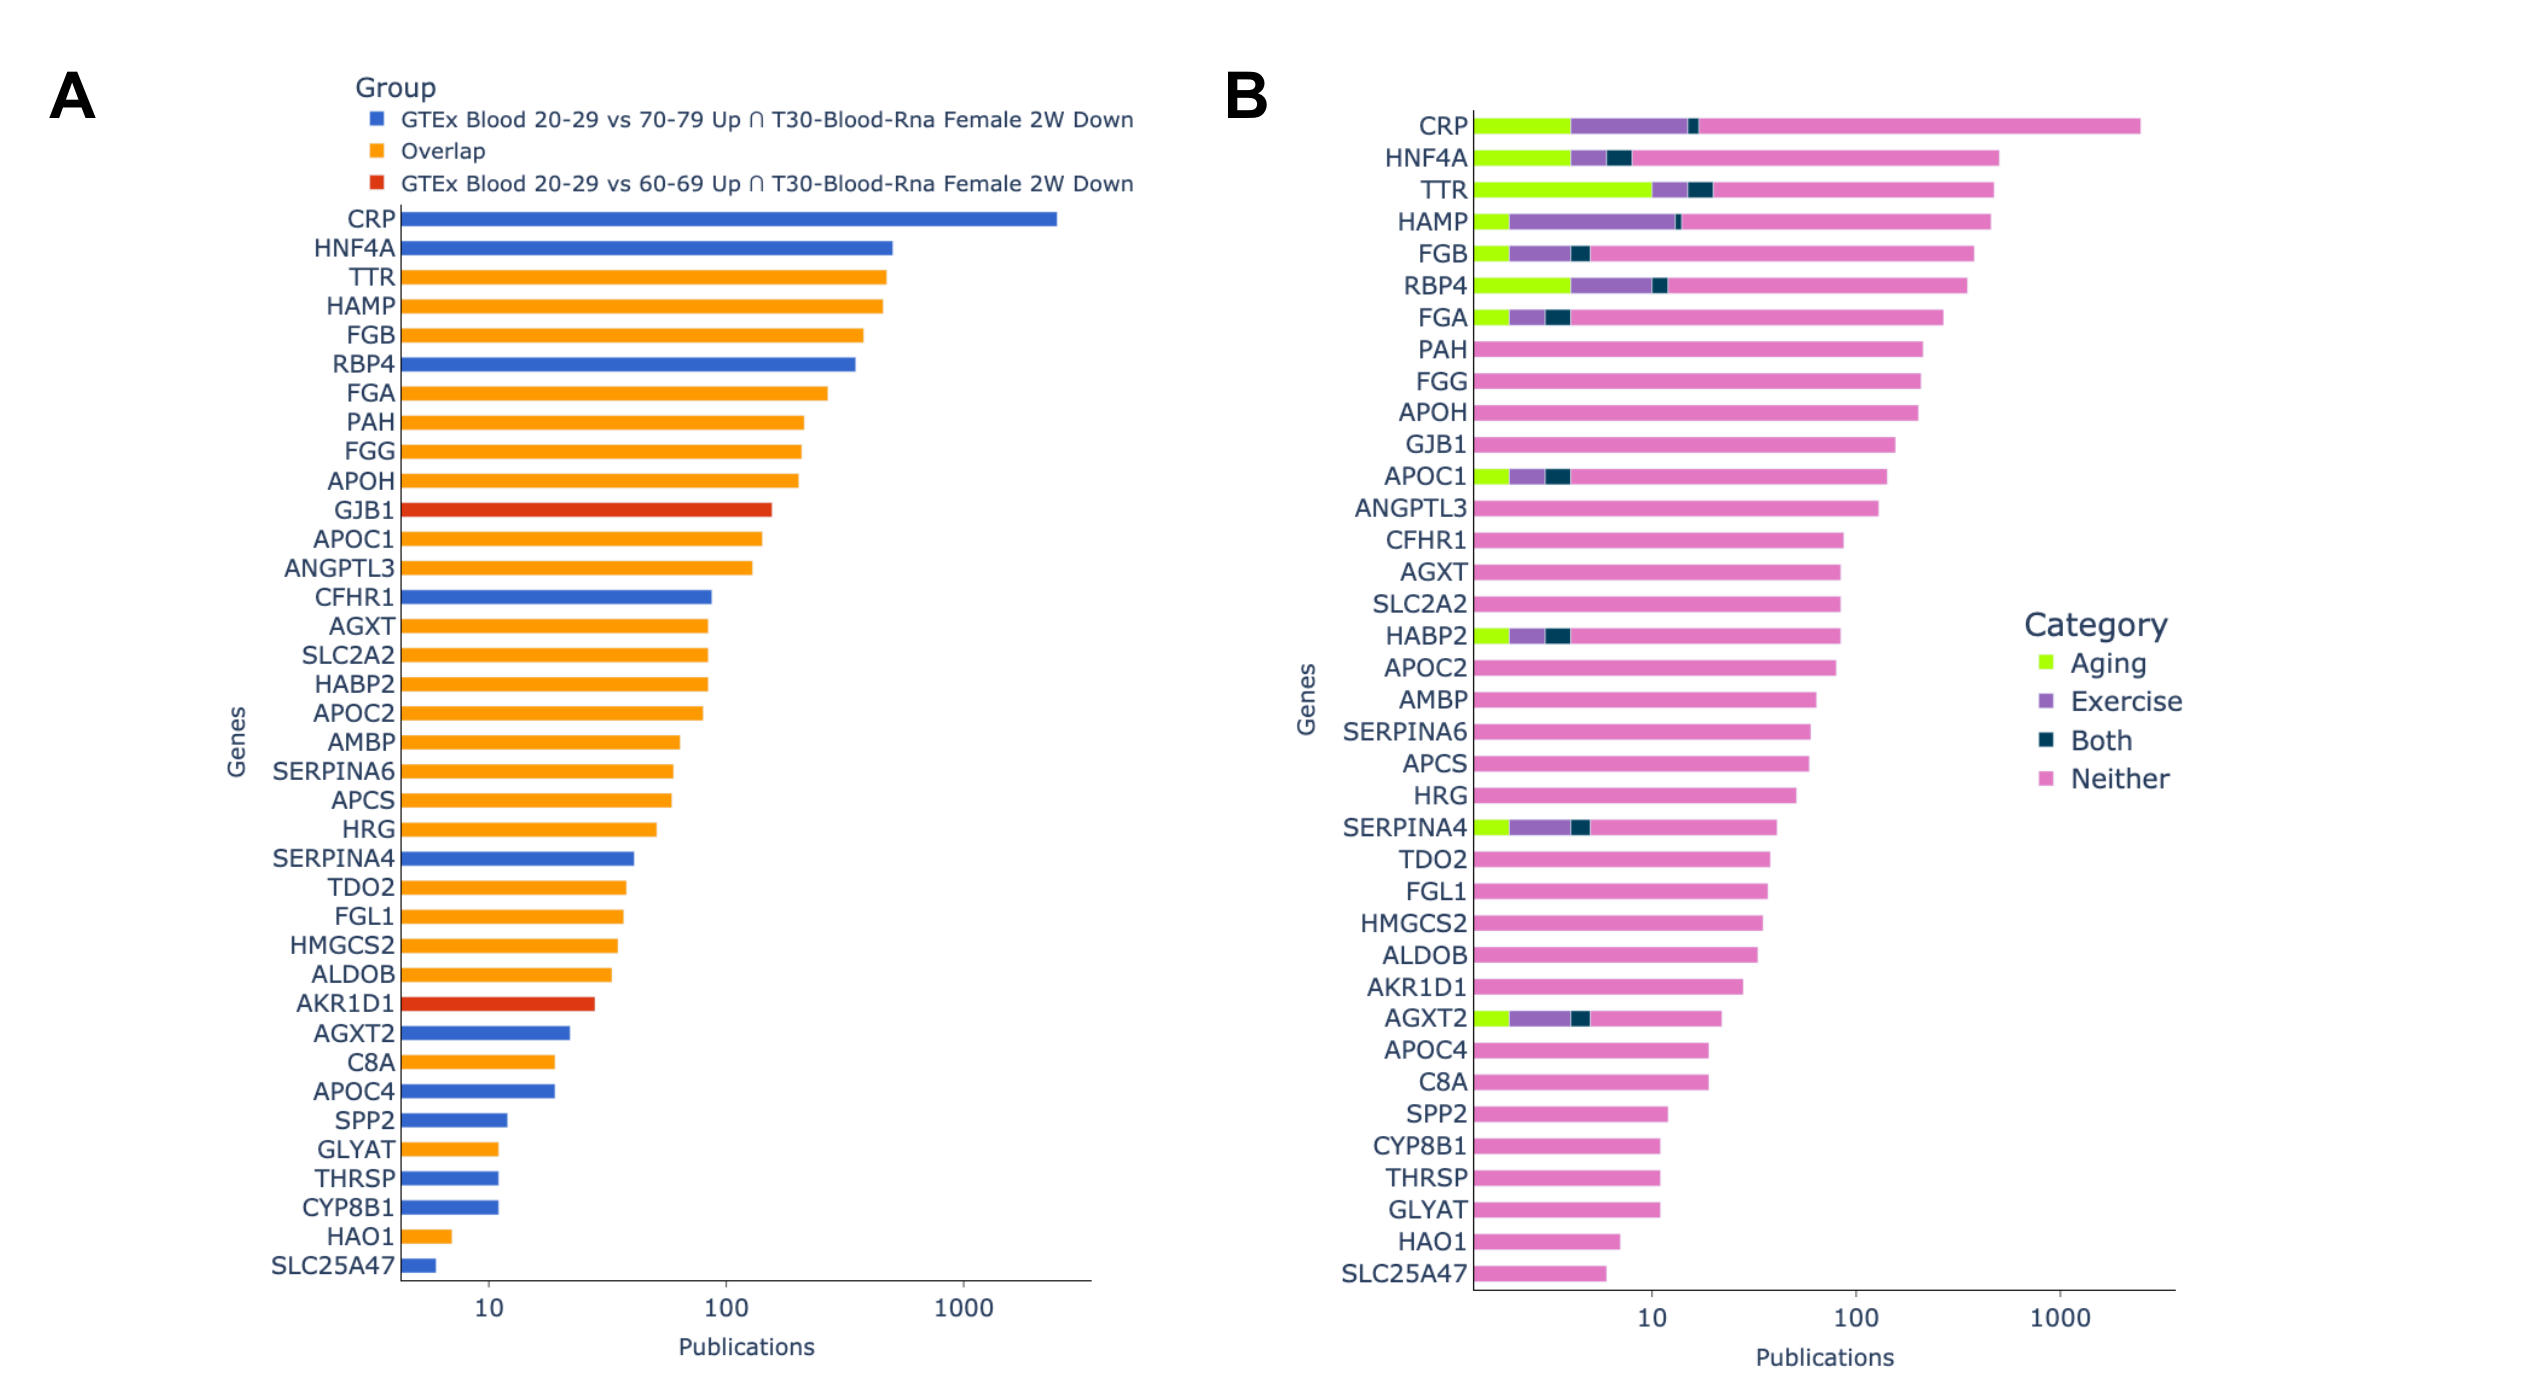
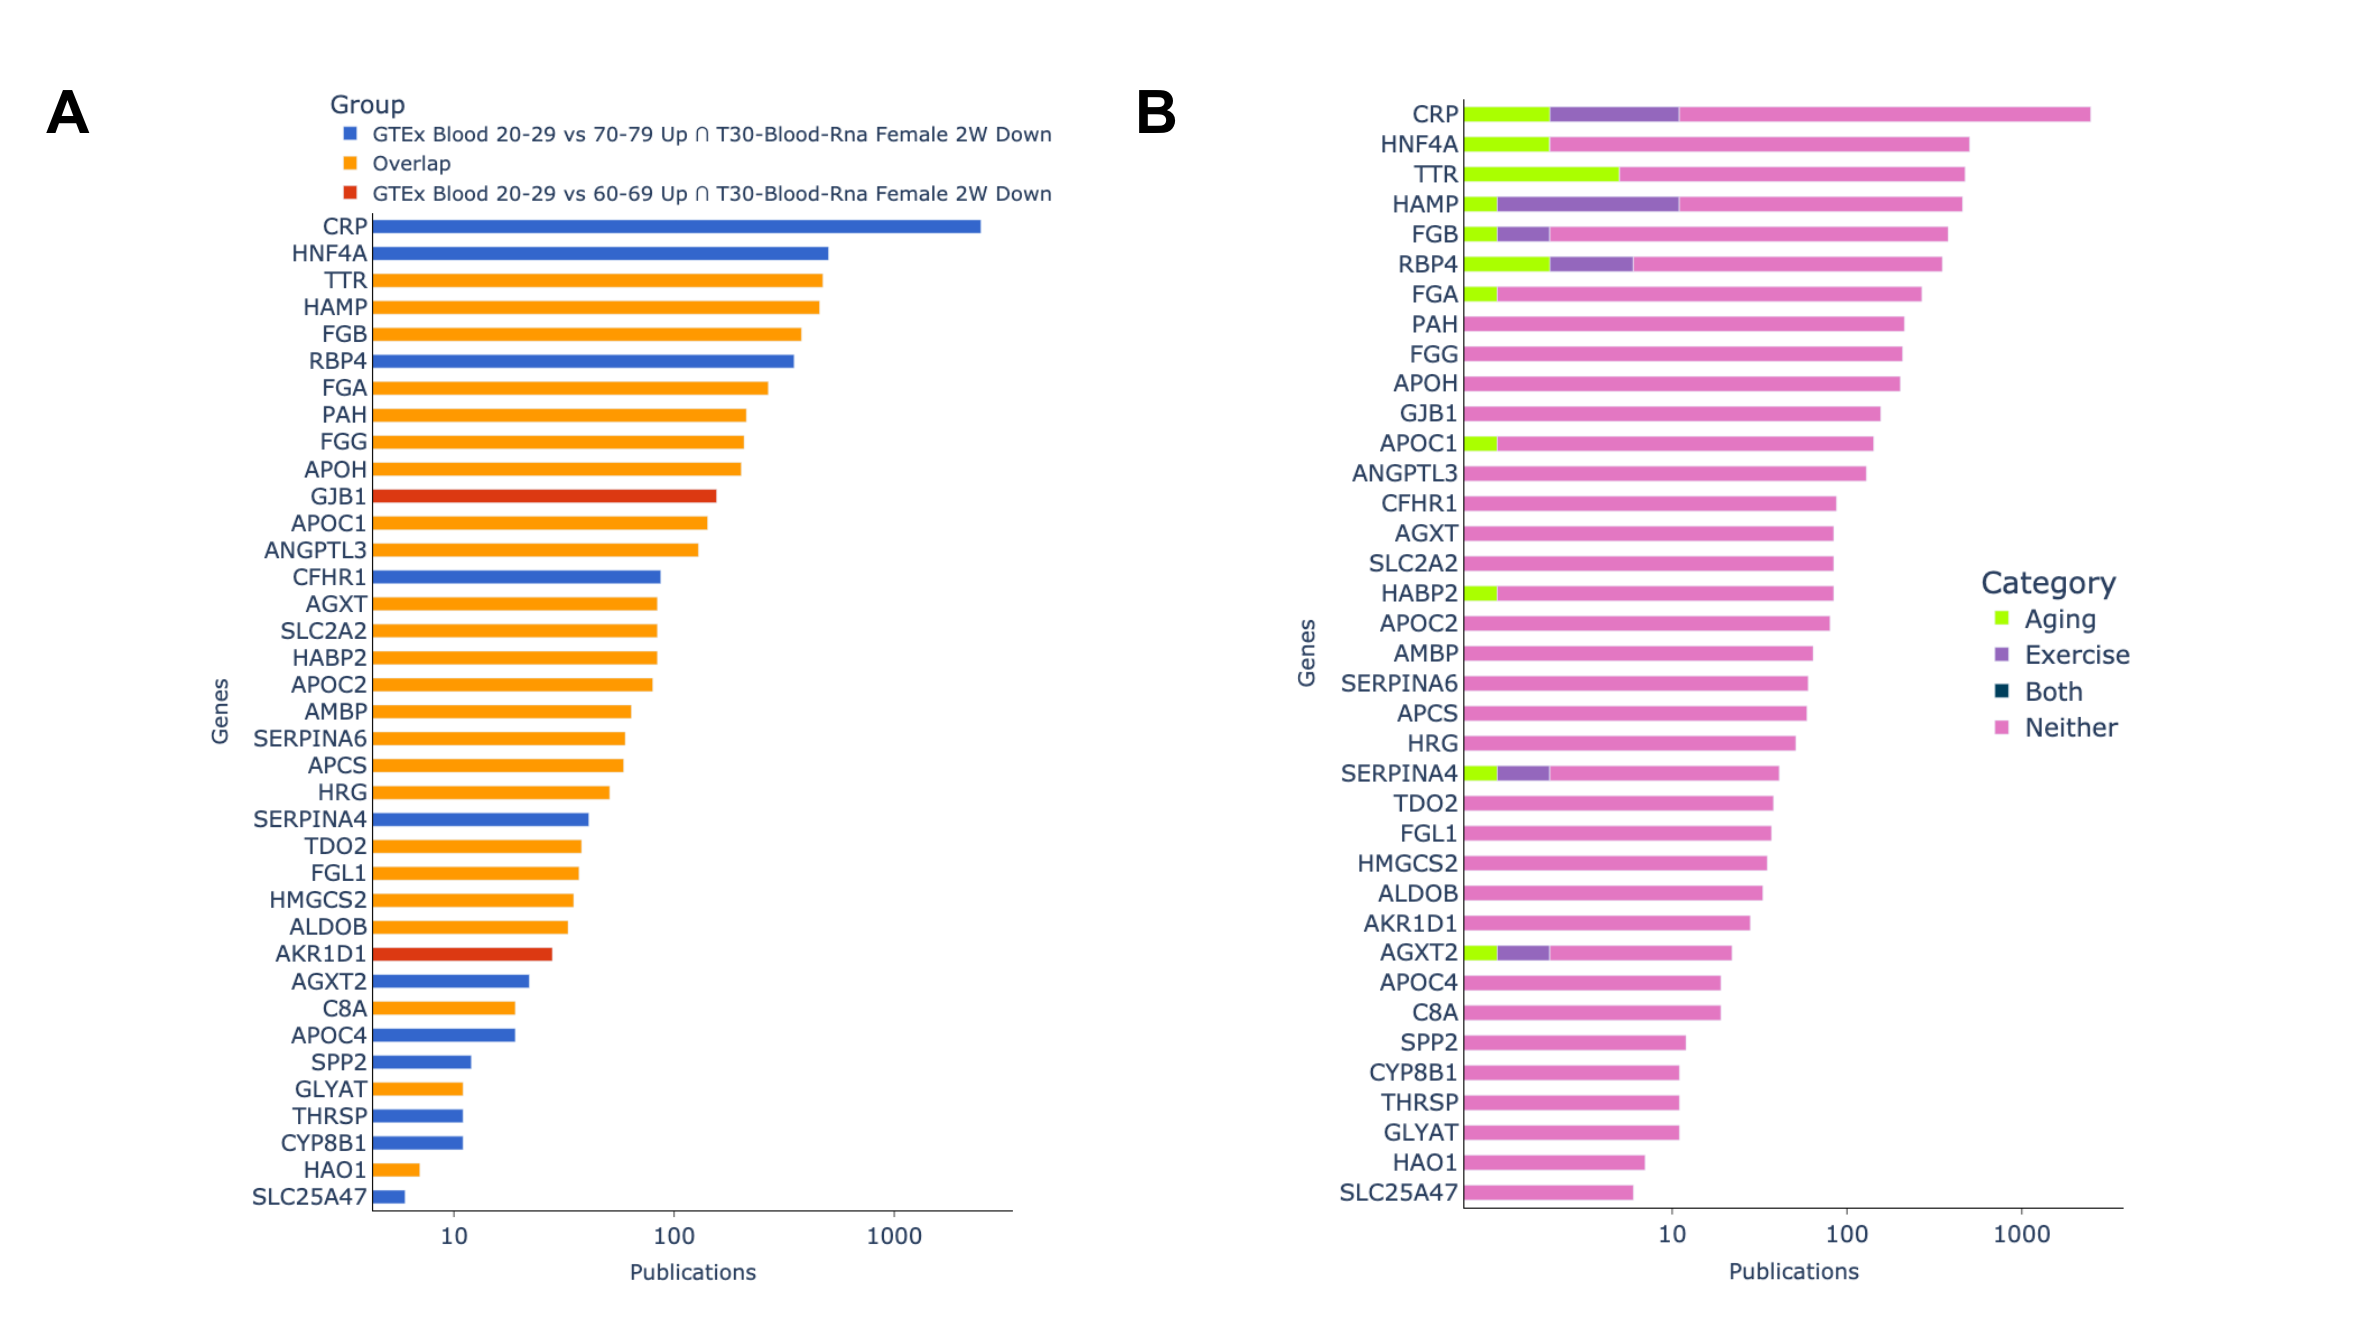
Update use cases with correct GeneRIF figure

diff --git a/imagineset/app/use-cases/markdowns/gtex_aging_motrpac.md b/imagineset/app/use-cases/markdowns/gtex_aging_motrpac.md
@@ -53,7 +53,7 @@ This is in line with studies which have shown that exercise can reverse many of 
 
 <br />
 
-A novelty assessment of the top crossing pair sets was done by comparing the number of publications each gene is associated with according to GeneRIF (Fig. 10). We find that 65% of the genes contained in those sets are associated in less than 100 publications in PubMed with two genes (HAO1 and SLC25A47) being associated with less than 10 publications. We also find that of these 37 genes, only 11 are found to be related to aging, exercise or both (CRP, HNF4A, TTR, HAMP, FGB, RBP4, FGA, APOC1, HABP2, SERPINA4 and AGXT2). These results suggest that many of our observed genes are understudied in the context of both aging and exercise, and the relationship between these two processes that our crossing results have shown to be significantly related. This provides evidence for the need for further exploration of the link between these genes and both aging and exercise. 
+A novelty assessment of the top crossing pair sets was done by comparing the number of publications each gene is associated with according to GeneRIF (Fig. 10). We find that 65% of the genes contained in those sets are associated in less than 100 publications in PubMed with two genes (HAO1 and SLC25A47) being associated with less than 10 publications. We also find that of these 37 genes, only 11 are found to be related to aging or exercise (CRP, HNF4A, TTR, HAMP, FGB, RBP4, FGA, APOC1, HABP2, SERPINA4 and AGXT2). These results suggest that many of our observed genes are understudied in the context of both aging and exercise, and the relationship between these two processes that our crossing results have shown to be significantly related. This provides evidence for the need for further exploration of the link between these genes and both aging and exercise. 
 
 <br />
 
